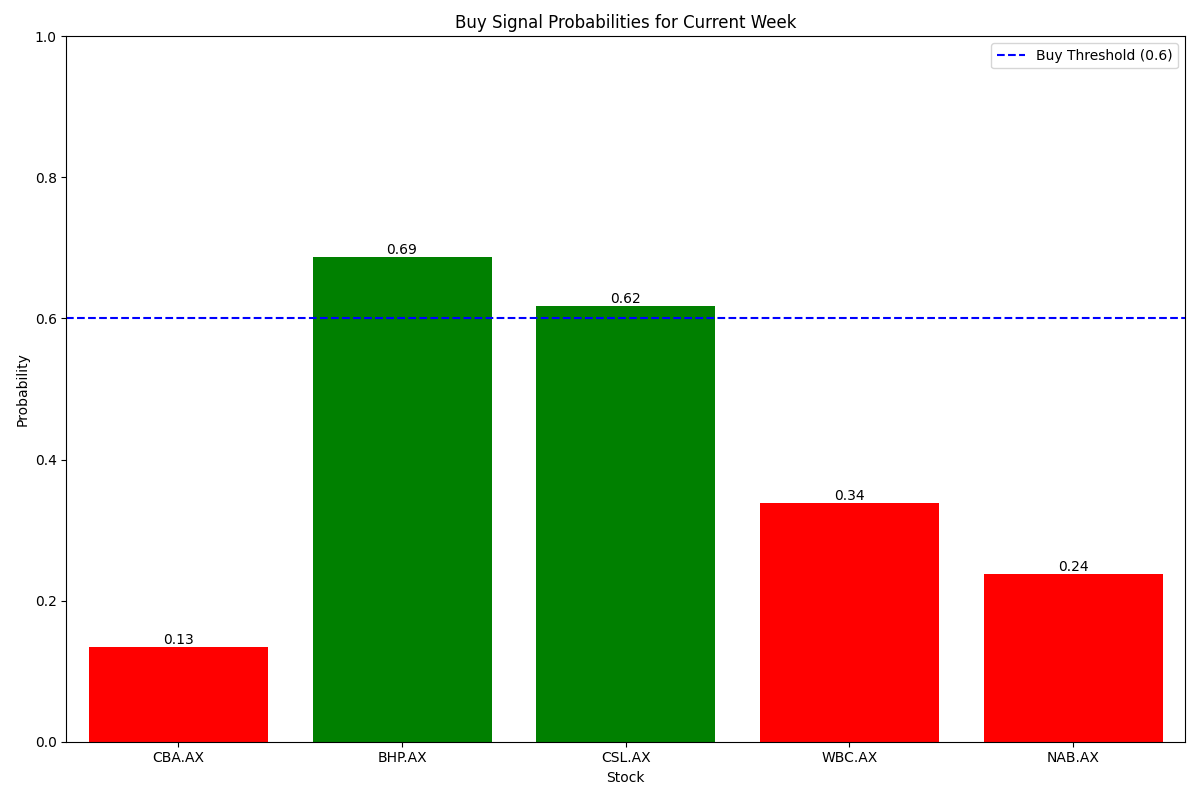
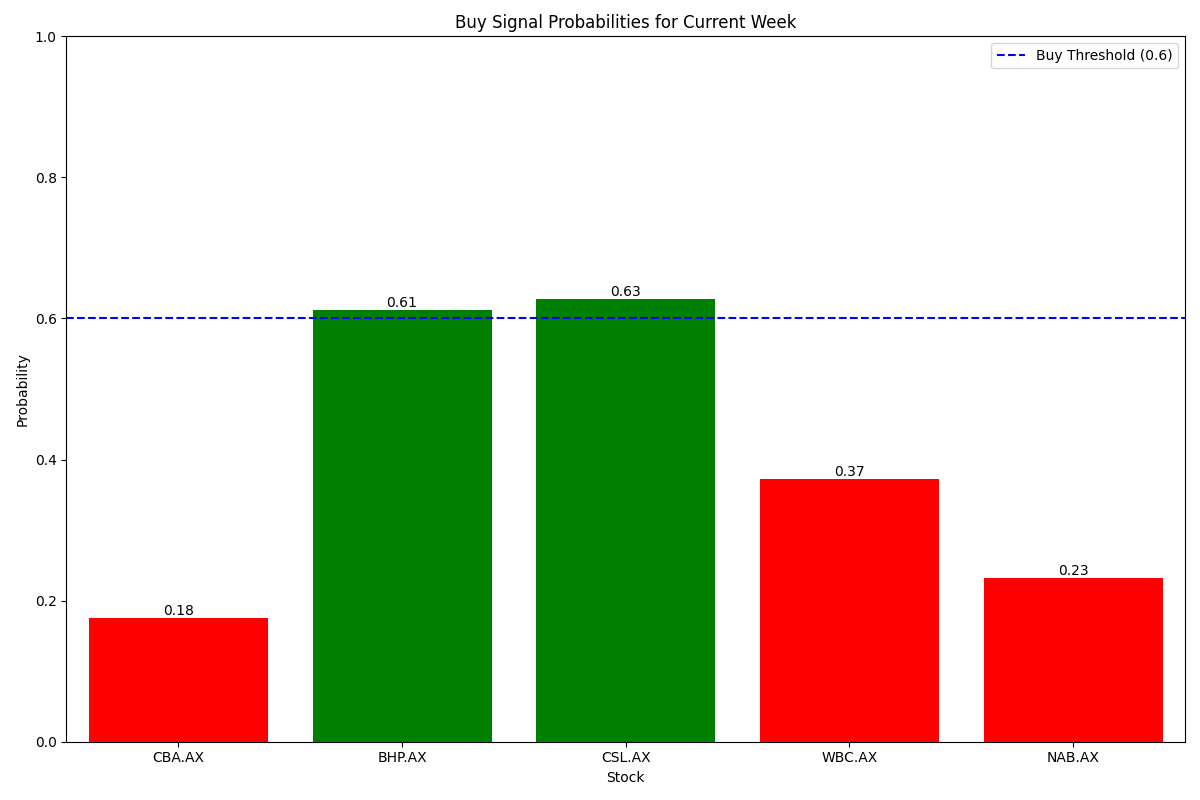
added randomforest folder and fixed bugs

diff --git a/stock_prediction_system/randomforest/results/stock_prediction_report.html b/stock_prediction_system/randomforest/results/stock_prediction_report.html
@@ -21,53 +21,53 @@
     </head>
     <body>
         <h1>Stock Prediction Analysis Report</h1>
-        <p>Generated on 2025-04-19 10:40:08</p>
+        <p>Generated on 2025-04-19 23:07:31</p>
         
         <h2>Current Week Predictions</h2>
     
         <div class="ticker-card avoid-signal">
             <h3>CBA.AX</h3>
             <p><strong>Recommendation:</strong> Avoid</p>
-            <p><strong>Buy Probability:</strong> 13.37%</p>
-            <p><strong>Current Price:</strong> $159.75</p>
-            <p><strong>RSI:</strong> 63.28</p>
-            <p><strong>MACD:</strong> 1.5960</p>
+            <p><strong>Buy Probability:</strong> 17.53%</p>
+            <p><strong>Current Price:</strong> $161.25</p>
+            <p><strong>RSI:</strong> 65.24</p>
+            <p><strong>MACD:</strong> 2.0166</p>
         </div>
         
         <div class="ticker-card buy-signal">
             <h3>BHP.AX</h3>
             <p><strong>Recommendation:</strong> Buy</p>
-            <p><strong>Buy Probability:</strong> 68.78%</p>
-            <p><strong>Current Price:</strong> $36.17</p>
-            <p><strong>RSI:</strong> 43.01</p>
-            <p><strong>MACD:</strong> -0.8869</p>
+            <p><strong>Buy Probability:</strong> 61.19%</p>
+            <p><strong>Current Price:</strong> $36.48</p>
+            <p><strong>RSI:</strong> 44.60</p>
+            <p><strong>MACD:</strong> -0.8973</p>
         </div>
         
         <div class="ticker-card buy-signal">
             <h3>CSL.AX</h3>
             <p><strong>Recommendation:</strong> Buy</p>
-            <p><strong>Buy Probability:</strong> 61.71%</p>
-            <p><strong>Current Price:</strong> $243.06</p>
-            <p><strong>RSI:</strong> 45.25</p>
-            <p><strong>MACD:</strong> -4.3115</p>
+            <p><strong>Buy Probability:</strong> 62.80%</p>
+            <p><strong>Current Price:</strong> $239.35</p>
+            <p><strong>RSI:</strong> 42.52</p>
+            <p><strong>MACD:</strong> -4.4226</p>
         </div>
         
         <div class="ticker-card avoid-signal">
             <h3>WBC.AX</h3>
             <p><strong>Recommendation:</strong> Avoid</p>
-            <p><strong>Buy Probability:</strong> 33.81%</p>
-            <p><strong>Current Price:</strong> $31.30</p>
-            <p><strong>RSI:</strong> 53.50</p>
-            <p><strong>MACD:</strong> -0.2004</p>
+            <p><strong>Buy Probability:</strong> 37.29%</p>
+            <p><strong>Current Price:</strong> $31.15</p>
+            <p><strong>RSI:</strong> 52.34</p>
+            <p><strong>MACD:</strong> -0.1504</p>
         </div>
         
         <div class="ticker-card avoid-signal">
             <h3>NAB.AX</h3>
             <p><strong>Recommendation:</strong> Avoid</p>
-            <p><strong>Buy Probability:</strong> 23.77%</p>
-            <p><strong>Current Price:</strong> $34.15</p>
-            <p><strong>RSI:</strong> 51.68</p>
-            <p><strong>MACD:</strong> -0.3465</p>
+            <p><strong>Buy Probability:</strong> 23.24%</p>
+            <p><strong>Current Price:</strong> $33.99</p>
+            <p><strong>RSI:</strong> 50.31</p>
+            <p><strong>MACD:</strong> -0.2893</p>
         </div>
         
     <h2>Backtest Results (Last 365 Days)</h2>
@@ -82,42 +82,47 @@
         </tr>
         <tr>
             <td>Final Portfolio Value</td>
-            <td>$105,696.10</td>
+            <td>$110,472.81</td>
         </tr>
         <tr>
             <td>Return on Investment</td>
-            <td>5.54%</td>
+            <td>9.96%</td>
         </tr>
         <tr>
             <td>Annualized Return</td>
-            <td>5.60%</td>
+            <td>10.30%</td>
         </tr>
         <tr>
             <td>Sharpe Ratio</td>
-            <td>0.723</td>
+            <td>1.058</td>
         </tr>
         <tr>
             <td>Maximum Drawdown</td>
-            <td>6.21%</td>
+            <td>6.36%</td>
         </tr>
         <tr>
             <td>Total Trades</td>
-            <td>19</td>
+            <td>20</td>
         </tr>
         <tr>
             <td>Win Rate</td>
-            <td>36.84%</td>
+            <td>45.00%</td>
         </tr>
         <tr>
             <td>Average Profit</td>
-            <td>$2034.68</td>
+            <td>$2069.19</td>
         </tr>
         <tr>
             <td>Average Loss</td>
-            <td>$-1110.52</td>
+            <td>$-1176.14</td>
         </tr>
     </table>
     
+        <div class="image-container">
+            <h3>Feature Importance</h3>
+            <img src="plots/feature_importance.png" alt="feature_importance">
+        </div>
+        
         <div class="image-container">
             <h3>Current Predictions</h3>
             <img src="plots/current_predictions.png" alt="current_predictions">

diff --git a/stock_prediction_system/randomforest/signal_generator.py b/stock_prediction_system/randomforest/signal_generator.py
@@ -1,8 +1,9 @@
 import pandas as pd
+import numpy as np
 from config import PREDICTION_PROBABILITY_THRESHOLD
 
 def generate_predictions(model_data, data):
-    """Generate predictions for latest data using the trained pipeline"""
+    """Generate predictions for latest data with detailed rationale focusing on top 3 features"""
     latest = data.groupby("Ticker").tail(1).copy()
     
     # Get model components
@@ -21,5 +22,126 @@ def generate_predictions(model_data, data):
                   'Hold' if x > 0.4 else
                   'Avoid'
     )
+    
+    # Extract feature importance from the model
+    # Note: For pipeline models, we need to access the actual classifier
+    if hasattr(model, 'named_steps') and 'randomforestclassifier' in model.named_steps:
+        classifier = model.named_steps['randomforestclassifier']
+        feature_importance = classifier.feature_importances_
+    else:
+        # For simple models without pipeline
+        feature_importance = getattr(model, 'feature_importances_', None)
+    
+    # Generate rationale based on top 3 important features
+    latest['Rationale'] = ""
+    for idx, row in latest.iterrows():
+        ticker = row['Ticker']
+        recommendation = row['Recommendation']
+        probability = row['Buy_Probability']
+        
+        # Start with confidence level
+        confidence_text = f"{probability:.1%} confidence - "
+        if recommendation == 'Strong Buy':
+            rationale_intro = f"{confidence_text}Most influential factors:"
+        elif recommendation == 'Buy':
+            rationale_intro = f"{confidence_text}Key factors supporting this decision:"
+        elif recommendation == 'Hold':
+            rationale_intro = f"{confidence_text}Mixed signals with these main factors:"
+        else:
+            rationale_intro = f"{confidence_text}Main concerns include:"
+        
+        top_factor_analysis = []
+        
+        # Add key technical indicators commentary based on top 3 features
+        if feature_importance is not None:
+            # Get indices of top 3 most important features
+            top_feature_indices = np.argsort(feature_importance)[-3:][::-1]
+            
+            for i, feature_idx in enumerate(top_feature_indices):
+                feature = features[feature_idx]
+                importance = feature_importance[feature_idx]
+                value = row[feature]
+                
+                # Format the feature importance as a percentage
+                importance_pct = f"{importance:.1%}"
+                
+                # Add feature number and importance percentage
+                factor_text = f"#{i+1} {feature} (importance: {importance_pct}): "
+                
+                # RSI analysis
+                if feature == 'RSI':
+                    if value > 70:
+                        factor_text += f"Overbought at {value:.1f}"
+                    elif value < 30:
+                        factor_text += f"Oversold at {value:.1f}"
+                    else:
+                        factor_text += f"Neutral at {value:.1f}"
+                
+                # MACD analysis
+                elif feature in ['MACD', 'MACD_Signal', 'MACD_Diff']:
+                    if feature == 'MACD_Diff':
+                        direction = "Bullish" if value > 0 else "Bearish"
+                        factor_text += f"{direction} momentum ({value:.4f})"
+                    elif feature == 'MACD':
+                        direction = "Positive" if value > 0 else "Negative"
+                        factor_text += f"{direction} trend ({value:.4f})"
+                    else:
+                        factor_text += f"Signal line at {value:.4f}"
+                
+                # Moving average analysis
+                elif feature in ['SMA_20', 'EMA_12', 'EMA_26']:
+                    current_price = row['Close']
+                    relation = "above" if current_price > value else "below"
+                    ma_type = feature.split('_')[0]  # SMA or EMA
+                    period = feature.split('_')[1]   # 20, 12, 26
+                    factor_text += f"Price {relation} {ma_type}-{period} by {(current_price/value - 1):.1%}"
+                
+                # Bollinger Bands analysis
+                elif feature == 'BB_Width':
+                    if value > 0.05:
+                        factor_text += f"High volatility ({value:.2f})"
+                    else:
+                        factor_text += f"Low volatility ({value:.2f})"
+                
+                # Stochastic oscillator
+                elif feature in ['Stoch', 'Stoch_Signal']:
+                    if value > 80:
+                        factor_text += f"Overbought at {value:.1f}"
+                    elif value < 20:
+                        factor_text += f"Oversold at {value:.1f}"
+                    else:
+                        factor_text += f"Neutral at {value:.1f}"
+                
+                # Volume indicators
+                elif feature == 'OBV':
+                    trend = "Increasing" if value > row['OBV'] * 0.95 else "Decreasing"
+                    factor_text += f"{trend} volume trend"
+                
+                # Price momentum
+                elif feature == 'Price_Change':
+                    direction = "Upward" if value > 0 else "Downward"
+                    factor_text += f"{direction} momentum ({value:.1%})"
+                
+                # Price to moving average ratio
+                elif feature == 'Price_MA_Ratio':
+                    if value > 1.05:
+                        factor_text += f"Significantly above MA ({value:.2f})"
+                    elif value < 0.95:
+                        factor_text += f"Significantly below MA ({value:.2f})"
+                    else:
+                        factor_text += f"Near MA ({value:.2f})"
+                        
+                # Average True Range
+                elif feature == 'ATR':
+                    factor_text += f"Volatility indicator at {value:.4f}"
+                
+                # Other indicators with simple value reporting
+                else:
+                    factor_text += f"{value:.4f}"
+                
+                top_factor_analysis.append(factor_text)
+        
+        # Combine rationale intro with top factor analysis
+        latest.at[idx, 'Rationale'] = rationale_intro + "\n• " + "\n• ".join(top_factor_analysis)
     
     return latest

diff --git a/stock_prediction_system/randomforest/main.py b/stock_prediction_system/randomforest/main.py
@@ -9,6 +9,7 @@ from visualization import (plot_confusion_matrix, plot_feature_importance,
 from backtest_engine import prepare_backtrader_data, run_backtest
 from utils import generate_report
 from config import TICKERS, PREDICTION_PROBABILITY_THRESHOLD
+import joblib
 import os
 
 def main():
@@ -31,12 +32,14 @@ def main():
         model_data = train_model(weekly_data)
         
         # Step 3: Generate current predictions
+        # model_data = joblib.load('models/stock_prediction_model.pkl')
         latest_predictions = generate_predictions(model_data, weekly_data)
         print("\n📈 Current Week Predictions:")
         print(latest_predictions[['Ticker', 'Close', 'Buy_Probability', 'Recommendation']])
         
         # Step 4: Create visualizations
         visualizations = {
+            'feature_importance': plot_feature_importance(model_data['model']),
             'current_predictions': plot_current_predictions(latest_predictions, PREDICTION_PROBABILITY_THRESHOLD),
             'historical_analysis': plot_historical_analysis(weekly_data, latest_predictions),
             'feature_correlation': plot_feature_correlation(weekly_data)
@@ -58,3 +61,30 @@ def main():
 
 if __name__ == "__main__":
     main()
+
+# def main():
+#     try:
+#         # Load data and model
+#         weekly_data = pd.read_csv('data/processed/processed_data.csv')
+#         model_data = joblib.load('models/stock_prediction_model.pkl')
+        
+#         # Generate predictions with rationale
+#         predictions = generate_predictions(model_data, weekly_data)
+        
+#         # Print results
+#         print("\n📈 Stock Predictions with Rationale:")
+#         for _, row in predictions.iterrows():
+#             print(f"\n{row['Ticker']} - ${row['Close']:.2f}")
+#             print(f"Recommendation: {row['Recommendation']}")
+#             print(f"Rationale: {row['Rationale']}")
+        
+#         # Save to CSV
+#         predictions[['Ticker', 'Close', 'Recommendation', 'Rationale']].to_csv(
+#             'results/current_predictions.csv', index=False)
+#         print("\n💾 Saved predictions to results/current_predictions.csv")
+        
+#     except Exception as e:
+#         print(f"❌ Error: {e}")
+
+# if __name__ == "__main__":
+#     main()

diff --git a/stock_prediction_system/randomforest/visualization.py b/stock_prediction_system/randomforest/visualization.py
@@ -2,6 +2,7 @@ import matplotlib.pyplot as plt
 import seaborn as sns
 import pandas as pd
 import numpy as np
+from sklearn.metrics import confusion_matrix
 from feature_engineering import get_feature_columns
 from utils import get_plot_path
 
@@ -25,9 +26,12 @@ def plot_feature_importance(model):
     """Plot feature importance"""
     plt.figure(figsize=(10, 8))
     features = get_feature_columns()
+
+    rf_model = model.named_steps['randomforestclassifier']
+
     feature_importance = pd.DataFrame({
         'Feature': features,
-        'Importance': model.feature_importances_
+        'Importance': rf_model.feature_importances_
     }).sort_values('Importance', ascending=False)
     
     sns.barplot(x='Importance', y='Feature', data=feature_importance)

diff --git a/stock_prediction_system/randomforest/config.py b/stock_prediction_system/randomforest/config.py
@@ -6,3 +6,9 @@ LOOKBACK_YEARS = 10  # Fetch more historical data
 DATA_INTERVAL = "1d"  # Daily data
 RANDOM_STATE = 42
 INITIAL_CAPITAL = 100000  # Starting capital for backtest
+
+# Feature interpretation thresholds
+RSI_OVERBOUGHT = 70
+RSI_OVERSOLD = 30
+STOCH_OVERBOUGHT = 80
+STOCH_OVERSOLD = 20

diff --git a/stock_prediction_system/randomforest/model_training.py b/stock_prediction_system/randomforest/model_training.py
@@ -98,6 +98,8 @@ def train_model(data):
     model_data = {
         'model': best_model,
         'features': features,
+        'y_test': y_test,
+        'y_pred': y_pred,
         'threshold': RETURN_THRESHOLD,
         'training_date': datetime.now().strftime('%Y-%m-%d'),
     }
